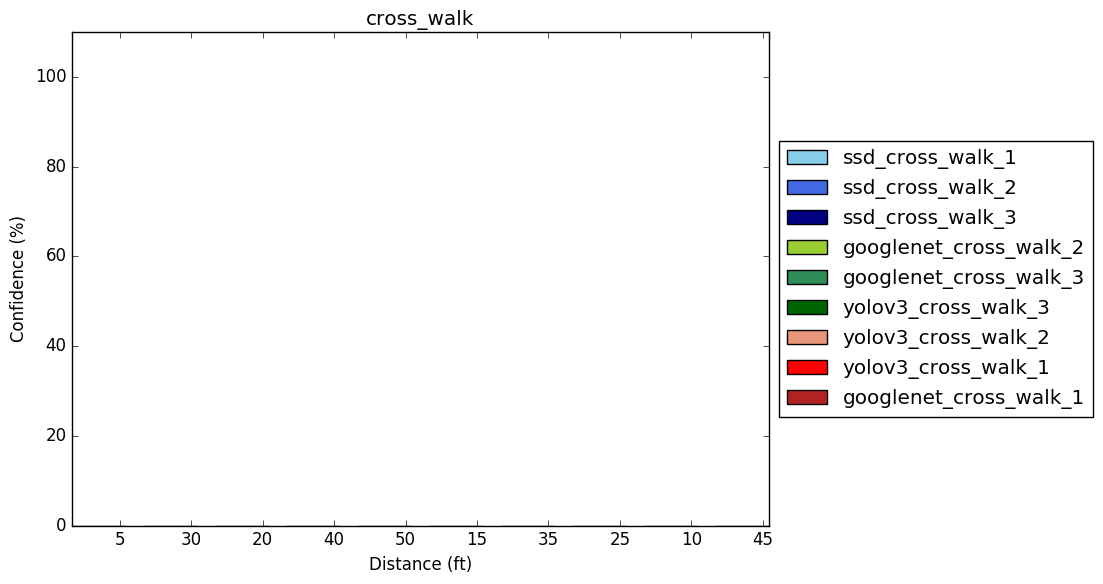
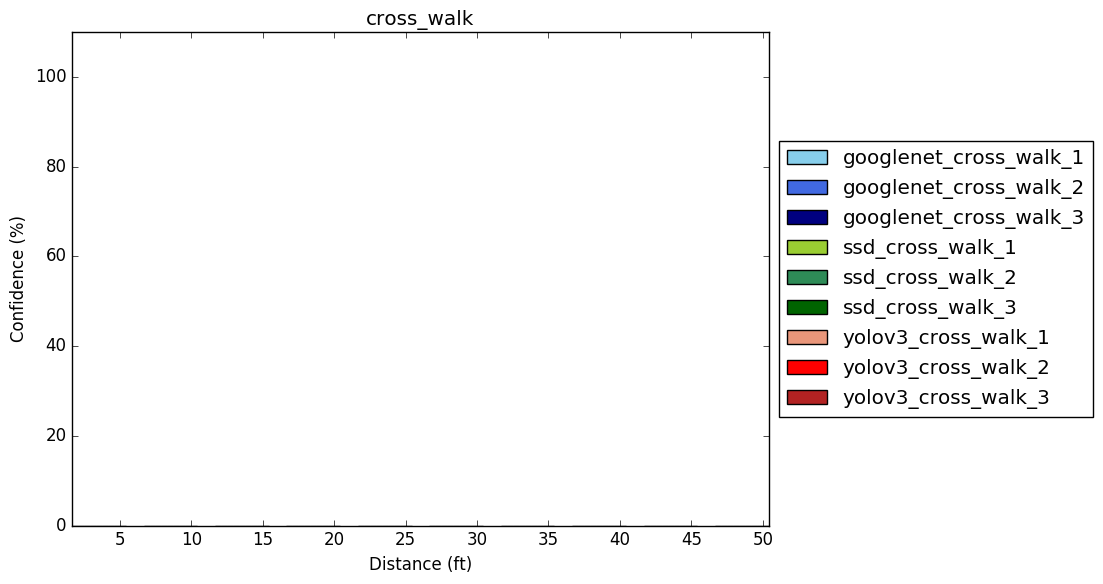
Changed list formatting into dictionary and sorted for graphing

diff --git a/process_results.py b/process_results.py
@@ -10,7 +10,8 @@ import sys
 # used for debugging
 import json
 from plot_multi_bar import plot_multibar
-
+from collections import OrderedDict
+from json import loads, dumps
 
 rootdir = os.path.dirname(os.path.abspath(__file__))
 # TODO Turn into input argument
@@ -54,7 +55,8 @@ def read_csv(file_path, confidence_threshold, removed_text):
             #found_list.append(int(image_name_list[2]))
             #for i in range(3 ,len(image_name_list)):
             #    found_list.append(image_name_list[i])
-            for i in range(2 ,len(image_name_list)):
+            found_list.append(int(image_name_list[2]))
+            for i in range(3 ,len(image_name_list)):
                 found_list.append(image_name_list[i])
             # Add the detection fillers
             found_list.append("")
@@ -84,7 +86,7 @@ def read_csv(file_path, confidence_threshold, removed_text):
 ##############################################################################
 # Group the sub-groupings (ex: imagetype1_1, imagetype1_2, etc)  
 ##############################################################################
-def organize_data(formatted_detection, network_title):
+def organize_data_old(formatted_detection, network_title):
     #Note: there is probably a more efficient way to do this. 
     #Group the lists 
 
@@ -150,6 +152,38 @@ def organize_data(formatted_detection, network_title):
     return image_list_grouped
 
 ##############################################################################
+# Group the sub-groupings (ex: imagetype1_1, imagetype1_2, etc)  
+##############################################################################
+def organize_data(formatted_detection, network_title, full_dictionary):
+    #Note: there is probably a more efficient way to do this. 
+    #Group the lists 
+    #print formatted_detection
+
+    for detection in formatted_detection:
+        image_name = detection[0]
+        run_label  = network_title + "_" + detection[1]
+        distance   = detection[2]
+        confidence = detection[4]
+        reported_detection = detection[3]
+
+        #check is dict has been added, if not then add new empty dict
+        if not full_dictionary.has_key(image_name):
+            full_dictionary[image_name] = {}
+
+        #check is sub-dict has been added, if not then add new empty dict
+        if not full_dictionary[image_name].has_key(run_label):
+            full_dictionary[image_name][run_label] = {}
+            full_dictionary[image_name][run_label]["distances"] = []
+            full_dictionary[image_name][run_label]["confidences"] = [] 
+            full_dictionary[image_name][run_label]["reported_detections"] = []
+
+        full_dictionary[image_name][run_label]["distances"].append(distance)
+        full_dictionary[image_name][run_label]["confidences"].append(confidence) 
+        full_dictionary[image_name][run_label]["reported_detections"].append(reported_detection)
+    
+    return full_dictionary
+
+##############################################################################
 # Format the data into a dictionary
 ##############################################################################
 def convert_to_dictionary(formatted_list):
@@ -175,18 +209,8 @@ def convert_to_dictionary(formatted_list):
                 image_types[detection_type[0]][run_label]["distances"] = distance_list
                 image_types[detection_type[0]][run_label]["confidences"] = confidence_list
                 image_types[detection_type[0]][run_label]["reported_detections"] = reported_detections
-    return image_types
 
-##############################################################################
-# 
-##############################################################################
-def subcategorybar(X, vals, width=0.8):
-    n = len(vals)
-    _X = np.arange(len(X))
-    for i in range(n):
-        plt.bar(_X - width/2. + i/float(n)*width, vals[i], 
-                width=width/float(n), align="edge")   
-    plt.xticks(_X, X)
+    return image_types
 
 
 ##############################################################################
@@ -197,11 +221,30 @@ def plot_the_data(results_dictionary):
     for key, value in results_dictionary.iteritems():
 
         print "Mapping graph: " + key
+
+        #sorted_value = sorted(value)
+        #sorted_value.sort()
+
+        ##sorted_value = OrderedDict()
+
+        ## ##go through the dictionary
+        ##for key2,val in value.items():
+        ##    sorted_value[key2] = OrderedDict(sorted(val.items()))  
+
+        ##sorted_dict = loads(dumps(sorted_value))
+
+        sorted_dict = OrderedDict(sorted(value.iteritems()))
         y_lists = []
         sub_bar_labels = []
 
+        print "-------------------"
+        print sorted_dict
+        print ""
+
+
         # Loop through the image subtypes and formulate the data into the lists plot_multibar expects (ex: Cars_1, Cars_2, etc)
-        for subkey, subvalue in value.iteritems():
+        ##for subkey, subvalue in sorted_value.iteritems():
+        for subkey, subvalue in sorted_dict.iteritems():
             x_markers    = subvalue["distances"]
             y_lists.append(subvalue["confidences"])
             sub_bar_labels.append(subkey)
@@ -226,6 +269,10 @@ csv_file_path  = rootdir + "/" + results_path
 #create master list containing all results
 master_list = []
 
+#create master dictionary containing all results
+#master_dict = Vividict()
+master_dict = {}
+
 #file_count  = 0
 #loop through all the results files
 for csv_file in os.listdir(csv_file_path):
@@ -242,11 +289,18 @@ for csv_file in os.listdir(csv_file_path):
         # read the files and organize the data
         csv_file_path           = results_path + "/" + csv_file
         single_nework_file_read = read_csv(csv_file_path, threshold, folder_path)
-        single_network_data     = organize_data(single_nework_file_read, network_name)
+        single_nework_file_read.sort(key=lambda x:x[2]) # sort by element 2
+        single_nework_file_read.sort()
+        
+        
+        #single_network_data     = organize_data(single_nework_file_read, network_name)
+        #master_list.append(single_network_data)
+        master_dict     = organize_data(single_nework_file_read, network_name,master_dict)
 
-        master_list.append(single_network_data)
 
-master_dict = convert_to_dictionary(master_list)
+print master_dict
+
+#master_dict = convert_to_dictionary(master_list)
 
 # Save the dictionary to a json file
 json_file_path = results_path + "results.json"

diff --git a/plot_multi_bar.py b/plot_multi_bar.py
@@ -9,7 +9,7 @@ rcParams.update({'figure.autolayout': True})
 markers = ["o","+","x","o","+","x","o","+","x"]
 lines   = ['--', '-.', ':','--', '-.', ':','--', '-.', ':']
 #colors  = ["blue", "red", "green", "orange", "yellow", "gray", "black","lightgreen", "ivory" ,"rosybrown", "royalblue", "saddlebrown", "salmon"]
-colors  = ["skyblue", "royalblue", "navy", "yellowgreen", "seagreen", "darkgreen", "darksalmon", "red", "firebrick", "gainsboro", "darkgrey", "dimgrey", "salmon"]
+colors  = ["skyblue", "royalblue", "navy", "yellowgreen", "seagreen", "darkgreen", "darksalmon", "red", "firebrick", "darkgrey", "dimgrey", "black", "salmon"]
 
 
 ##############################################################################
@@ -36,7 +36,7 @@ def plot_multibar(y_lists, x_markers, sub_bar_labels, x_label="x_value", y_label
             #width = indices
             #         iteration   Centers the bargraph (.5)      
             width_i = (width*i) - .5
-            
+
             ax.bar(indices+width_i,sub_bars,width,color=colors[plot_cnt],tick_label=x_markers, label=sub_bar_labels[i]) 
  
             #check if out of line colors and loop back if so
